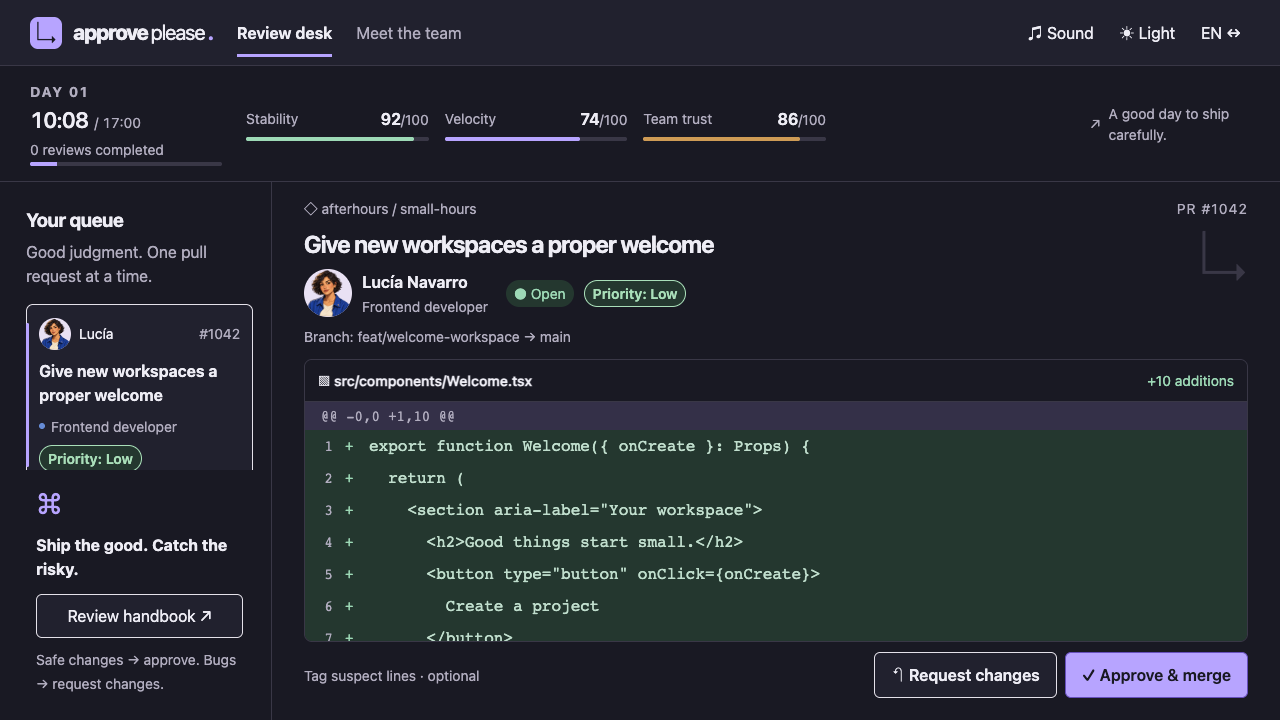
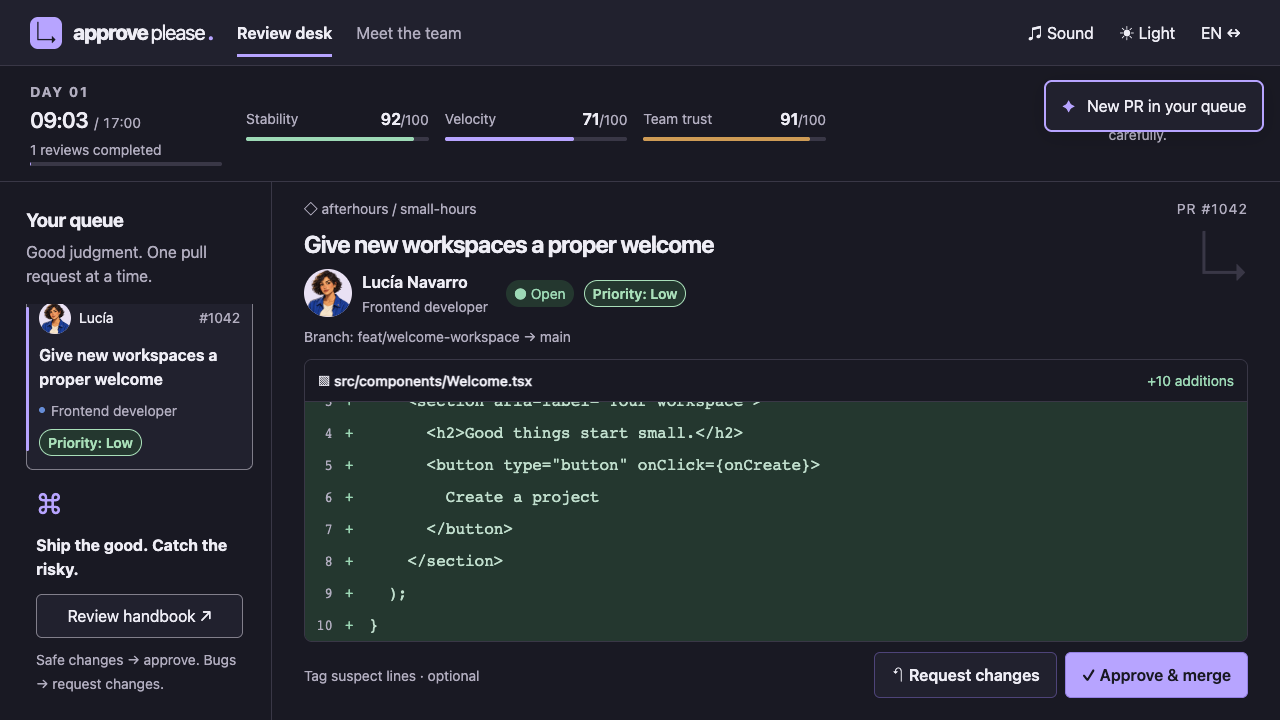
fix: fit the code diff panel to shorter snippets

diff --git a/styles/DesignStudy.module.css b/styles/DesignStudy.module.css
@@ -16,8 +16,8 @@
 @media(max-width:1050px){.shiftStamp{display:none}.workspace{grid-template-columns:215px minmax(0,1fr)}.sidebar{padding-left:18px;padding-right:12px}.main{padding:20px}.prHeading h1{font-size:1.4375rem}.prGlyph{display:none}.shiftbar{gap:20px}.shiftbar>div:first-child{width:165px}.topbar{gap:25px;padding:0 20px}.verdicts button{padding:9px 10px}.decisionBar{align-items:flex-start;flex-direction:column}.decisionBar .verdicts{align-self:flex-end}.castGrid{grid-template-columns:1fr}.castCard{max-width:650px;width:100%;margin:auto}.cast{padding:35px 24px}}
 @media(max-width:700px){.topbar{height:auto;min-height:62px;padding:14px 16px;gap:10px;flex-wrap:wrap}.brand{font-size:1.1875rem}.brandIcon{width:27px;height:27px;font-size:1.4375rem}.topbar nav{order:3;width:100%;height:36px;gap:24px;margin-top:3px}.topbar nav button{font-size:0.875rem}.preferences{gap:0}.preferences button{padding:6px}.preferences button span{display:none}.previewBar{padding:6px 16px;font-size:0.875rem}.previewBar>span:last-child{display:none}.shiftbar{padding:13px 16px;gap:20px;align-items:flex-start}.shiftbar>div:first-child{width:70px;gap:6px}.shiftbar .eyebrow{font-size:0.875rem;white-space:nowrap}.shiftbar strong{font-size:1.25rem}.shiftbar strong>span{display:none}.meters{gap:14px;width:100%;padding-top:3px}.meters>div{min-width:0}.meters>div>span{flex-direction:column;align-items:flex-start;gap:3px;font-size:0.875rem}.meters b{font-size:0.875rem}.meters small{font-size:0.875rem}.workspace{display:block}.sidebar{display:none}.main{padding:15px 16px 20px}.mobileTools{display:flex;justify-content:space-between;margin-bottom:20px;gap:10px}.mobileTools button{font-size:0.875rem;padding:6px 10px;background:var(--surface)}.repo{font-size:0.875rem;margin-bottom:10px}.prHeading h1{font-size:1.5625rem;line-height:1.2;letter-spacing:-.8px;margin-bottom:15px}.author{gap:8px}.author>div>span{font-size:0.875rem}.description{font-size:0.875rem;margin:14px 0 18px}.fileHeader{font-size:0.875rem;padding:10px;gap:5px}.fileHeader>span:first-child{overflow-wrap:anywhere}.additionCount>span{display:none}.codeScroll{max-height:310px}.study .codeLine{font-size:0.875rem;line-height:24px}.lineNumber,.lineMarker{line-height:24px}.lineNumber{width:28px;padding-right:7px}.lineMarker{width:19px}.decisionBar{position:sticky;bottom:0;background:var(--paper);border-top:1px solid var(--line);border-bottom:1px solid var(--line);margin-top:12px;z-index:2;gap:8px;padding:10px 0}.decisionBar .verdicts{width:100%;align-self:auto}.verdicts button{flex:1;font-size:0.875rem;padding:10px 8px;white-space:nowrap}.receipt{margin-top:14px;padding:13px 10px;gap:9px;align-items:flex-start;min-height:85px}.receipt>.portrait{width:38px!important;height:38px!important}.receiptCopy strong>span{display:block;margin-top:2px}.receiptCopy .eyebrow{font-size:0.875rem;letter-spacing:.07em}.deltas{gap:8px;flex-wrap:wrap;font-size:0.875rem}.studyFooter{gap:16px;font-size:0.875rem;margin-top:13px}.studyFooter button{font-size:0.875rem;white-space:nowrap}.cast{padding:28px 16px}.cast>h1{font-size:2rem}.castCard{padding:19px 14px}.expressions{gap:8px}.expressions figcaption{font-size:0.875rem}.castCard blockquote{font-size:0.875rem}.castGrid{margin:24px 0}.scale{gap:8px}}
 @media(prefers-reduced-motion:reduce){.study button{transition:none}}
-/* Keep the verdicts reachable while the diff owns the remaining space. */
-@media(min-width:701px) and (min-height:650px){.workspace{height:calc(100vh - 168px);min-height:532px}.main{display:flex;flex-direction:column;padding-top:16px}.main>.repo,.prHeading,.description,.decisionBar,.receipt,.studyFooter{flex-shrink:0}.main>.repo{margin-bottom:10px}.prHeading h1{font-size:1.5rem;margin-bottom:10px}.author>.portrait{width:40px!important;height:40px!important}.description{margin:9px 0 12px}.diff{flex:1;min-height:145px;display:flex;flex-direction:column}.fileHeader{flex-shrink:0}.codeScroll{max-height:none;min-height:0;flex:1}.decisionBar{padding:10px 0}.receipt{min-height:65px;padding:10px 13px}.studyFooter{margin-top:7px}}
+/* Fit short snippets to their content; longer diffs shrink and scroll above the verdicts. */
+@media(min-width:701px) and (min-height:650px){.workspace{height:calc(100vh - 168px);min-height:532px}.main{display:flex;flex-direction:column;padding-top:16px}.main>.repo,.prHeading,.description,.decisionBar,.receipt,.studyFooter{flex-shrink:0}.main>.repo{margin-bottom:10px}.prHeading h1{font-size:1.5rem;margin-bottom:10px}.author>.portrait{width:40px!important;height:40px!important}.description{margin:9px 0 12px}.diff{flex:0 1 auto;min-height:145px;display:flex;flex-direction:column}.fileHeader{flex-shrink:0}.codeScroll{max-height:min(50vh,30rem);min-height:0;flex:0 1 auto}.decisionBar{padding:10px 0}.receipt{min-height:65px;padding:10px 13px}.studyFooter{margin-top:7px}}
 .previewControl{display:flex;align-items:center;gap:7px;font-size:0.875rem;letter-spacing:0}.previewControl select{font:inherit;background:var(--surface);color:var(--ink);border:1px solid var(--line);border-radius:4px;padding:2px 5px}.previewControl select:focus-visible{outline:3px solid var(--purple);outline-offset:2px}.emptyQueue{color:var(--subtle);font-size:0.875rem;padding:15px 10px}.emptyReview{flex:1;display:flex;flex-direction:column;align-items:center;justify-content:center;text-align:center;min-height:290px;padding:35px 20px}.emptyReview>span{display:grid;place-items:center;width:64px;height:64px;font-size:1.6875rem;color:var(--purple);background:var(--wash);border-radius:50%}.emptyReview h1{font-size:1.6875rem;letter-spacing:-.7px;margin:19px 0 9px}.emptyReview p{font-size:0.875rem;color:var(--subtle);max-width:400px;line-height:1.7}.emptyReview button{font-size:0.875rem;margin-top:12px}.study button:disabled{cursor:not-allowed;opacity:.45;filter:none}.study button:disabled:hover{border-color:var(--line)}
 @media(max-width:1050px){.previewBar>span:nth-child(2){display:none}}@media(max-width:700px){.previewControl{font-size:0.875rem;gap:5px}.previewControl select{max-width:115px}.emptyReview h1{font-size:1.5625rem}.emptyReview{min-height:320px}.previewBar{gap:10px;align-items:center}}
 @media(min-width:701px) and (min-height:650px){.study{height:100vh;display:flex;flex-direction:column}.topbar,.previewBar,.shiftbar{flex-shrink:0}.workspace{height:auto;min-height:0;flex:1;width:100%;overflow:hidden}.main{min-height:0}.sidebar{min-height:0;overflow:auto}.diff{min-height:120px}.cast{overflow:auto;width:100%}}

diff --git a/docs/design-study/README.md b/docs/design-study/README.md
@@ -31,3 +31,7 @@ Latest follow-up gates: 524 tests pass with one worker; typecheck/build pass; li
 All queue cards and the active review display localized Low/Medium/High priority badges (Baja/Media/Alta). Priority remains the existing `low | normal | high` contract and is independent of clean/flawed editions. Badges use readable text as well as color, at 14 px minimum. The shared middle-priority label now reads Medium/Media in the existing live queue too.
 
 Verification: 525 tests pass with one worker; typecheck and production build pass; all 390 templates validate with manifests unchanged. Lint has zero errors and five existing warnings. Browser clock checks exercise 09:00 → 10:00 in 15 real seconds, pause/resume in settings, automatic advance, the 17:00 boundary, disabled verdicts, next-shift reset and preservation of pending PRs. Live tutorial/waves/scoring migration remains Phase 2.
+
+
+## Compact diff sizing
+Short snippets now determine the panel height instead of stretching to fill the viewport. The verdict bar follows the diff directly; long snippets retain an independent scroll area capped at 50vh/30rem and shrink further when needed. The code remains 16 px. Browser checks at 1440×1000, 1280×720 and 768×1024 reduced the five-line sample’s trailing gap from 334 px to 3 px, with the actions on screen. Long-diff scrolling, line selection, automatic rejection advance and 390 px mobile reflow remain working. See compact-diff.png.
